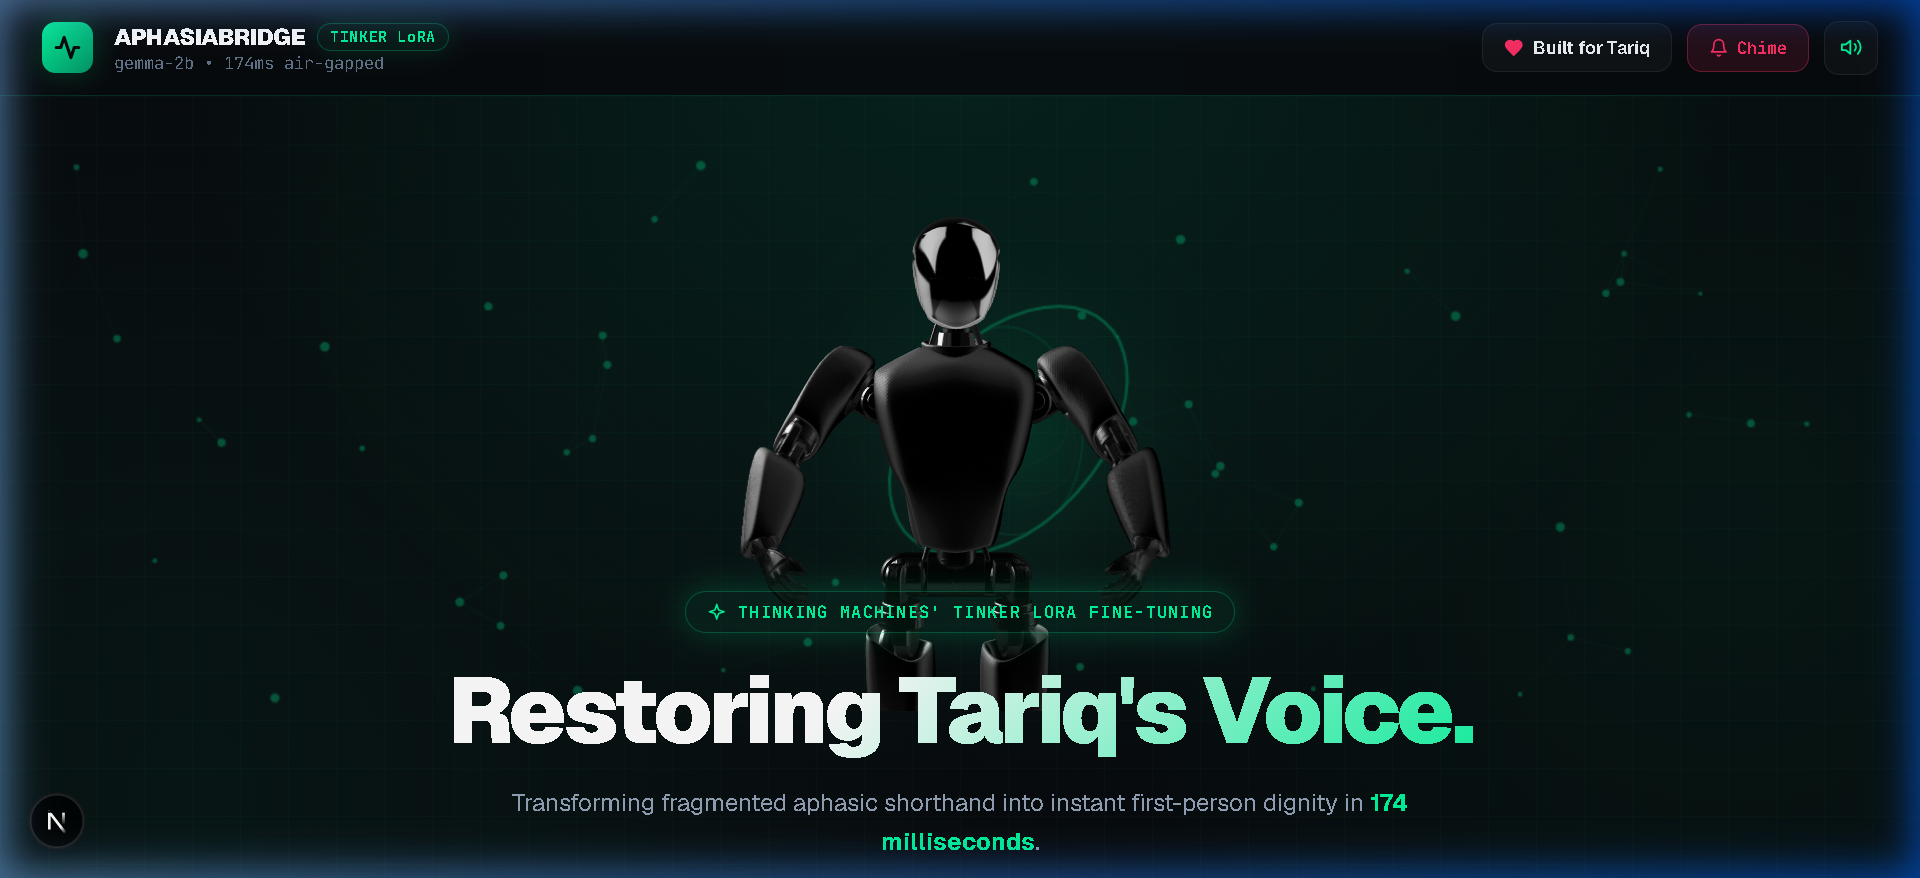
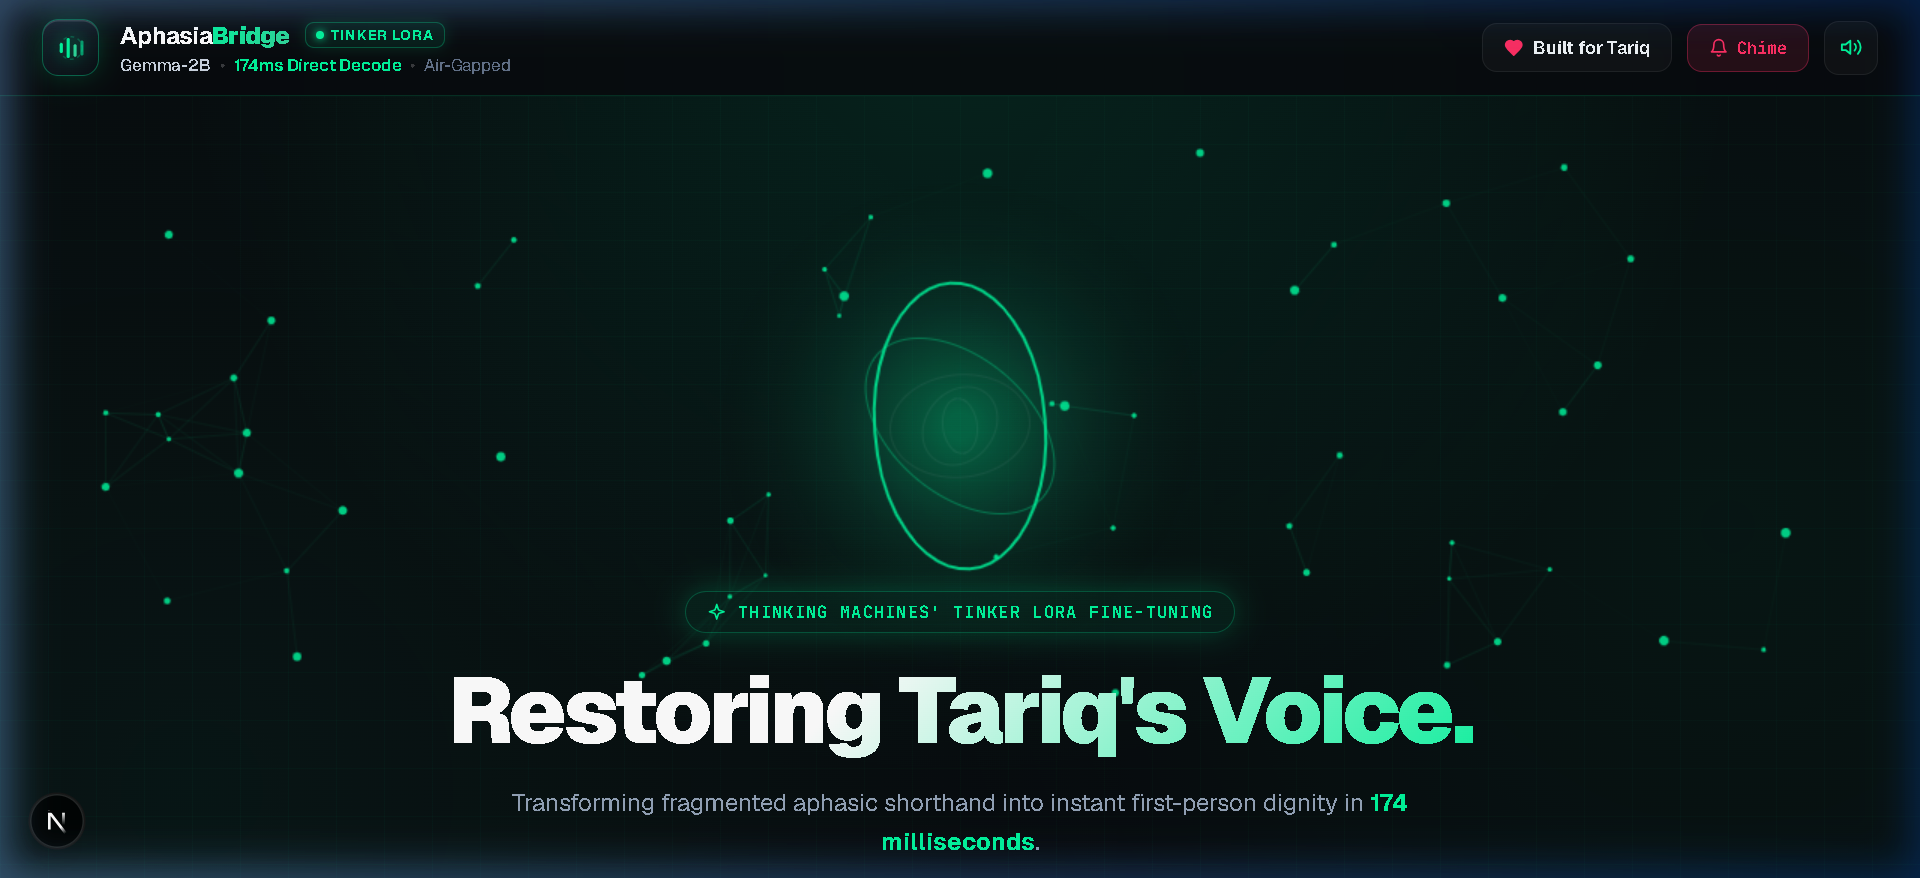
feat(brand): redesign header brand section with cybernetic voice node mark and luxury typography

diff --git a/next-app/app/page.jsx b/next-app/app/page.jsx
@@ -111,30 +111,99 @@ export default function Home() {
       }}>
         {/* Brand */}
         <div style={{ display: 'flex', alignItems: 'center', gap: '14px' }}>
+          {/* Futuristic Cybernetic Voice Node Mark */}
           <div style={{
-            width: '34px',
-            height: '34px',
-            borderRadius: '9px',
-            background: 'linear-gradient(135deg, #00F59B 0%, #059669 100%)',
+            position: 'relative',
+            width: '38px',
+            height: '38px',
+            borderRadius: '11px',
+            background: 'linear-gradient(145deg, #111822 0%, #0A0F15 100%)',
+            border: '1px solid rgba(0, 245, 155, 0.35)',
             display: 'flex',
             alignItems: 'center',
             justifyContent: 'center',
-            boxShadow: '0 0 20px var(--zed-glow)'
+            boxShadow: '0 0 20px rgba(0, 245, 155, 0.2), inset 0 1px 0 rgba(255, 255, 255, 0.15)',
+            flexShrink: 0
           }}>
-            <Activity size={18} color="#07090D" strokeWidth={2.8} />
+            {/* Cybernetic Equalizer Sound Wave */}
+            <svg width="20" height="20" viewBox="0 0 24 24" fill="none">
+              <rect x="3" y="8" width="2.5" height="8" rx="1.25" fill="#00F59B" />
+              <rect x="8.5" y="4" width="2.5" height="16" rx="1.25" fill="#00F59B" />
+              <rect x="14" y="9" width="2.5" height="10" rx="1.25" fill="#34D399" />
+              <rect x="19.5" y="6" width="2.5" height="12" rx="1.25" fill="#059669" />
+              <circle cx="12" cy="12" r="9" stroke="rgba(0, 245, 155, 0.25)" strokeWidth="1.2" strokeDasharray="3 3" />
+            </svg>
+            {/* Micro-glow in the center */}
+            <div style={{
+              position: 'absolute',
+              width: '14px',
+              height: '14px',
+              borderRadius: '50%',
+              background: '#00F59B',
+              filter: 'blur(8px)',
+              opacity: 0.45,
+              pointerEvents: 'none'
+            }} />
           </div>
 
-          <div>
-            <div style={{ display: 'flex', alignItems: 'center', gap: '8px' }}>
-              <span style={{ fontSize: '15px', fontWeight: '900', fontFamily: 'var(--font-display)', letterSpacing: '-0.02em', color: '#FFFFFF' }}>
-                APHASIABRIDGE
+          <div style={{ display: 'flex', flexDirection: 'column', gap: '2px' }}>
+            <div style={{ display: 'flex', alignItems: 'center', gap: '10px' }}>
+              <span style={{
+                fontSize: '16px',
+                fontFamily: 'var(--font-display)',
+                letterSpacing: '-0.03em',
+                display: 'inline-flex',
+                alignItems: 'center'
+              }}>
+                <span style={{ fontWeight: '700', color: '#FFFFFF' }}>Aphasia</span>
+                <span style={{
+                  fontWeight: '900',
+                  background: 'linear-gradient(135deg, #00F59B 0%, #34D399 100%)',
+                  WebkitBackgroundClip: 'text',
+                  WebkitTextFillColor: 'transparent'
+                }}>Bridge</span>
               </span>
-              <span className="pill-zed" style={{ padding: '2px 8px', fontSize: '10px' }}>
+
+              <span style={{
+                display: 'inline-flex',
+                alignItems: 'center',
+                gap: '5px',
+                background: 'rgba(0, 245, 155, 0.08)',
+                border: '1px solid rgba(0, 245, 155, 0.28)',
+                borderRadius: '6px',
+                padding: '2px 7px',
+                fontSize: '9.5px',
+                fontWeight: '700',
+                letterSpacing: '0.06em',
+                textTransform: 'uppercase',
+                color: 'var(--zed-green)',
+                boxShadow: '0 0 10px rgba(0, 245, 155, 0.15)'
+              }}>
+                <span style={{
+                  width: '5px',
+                  height: '5px',
+                  borderRadius: '50%',
+                  backgroundColor: 'var(--zed-green)',
+                  boxShadow: '0 0 6px var(--zed-green)'
+                }} />
                 TINKER LoRA
               </span>
             </div>
-            <div style={{ fontSize: '11px', color: '#64748B', fontFamily: 'var(--font-mono)' }}>
-              gemma-2b &bull; 174ms air-gapped
+
+            <div style={{
+              display: 'flex',
+              alignItems: 'center',
+              gap: '6px',
+              fontSize: '11px',
+              color: '#94A3B8',
+              fontFamily: 'var(--font-sans)',
+              letterSpacing: '-0.01em'
+            }}>
+              <span style={{ color: '#CBD5E1', fontWeight: '500' }}>Gemma-2B</span>
+              <span style={{ color: 'rgba(255, 255, 255, 0.2)' }}>&bull;</span>
+              <span style={{ color: 'var(--zed-green)', fontWeight: '600' }}>174ms Direct Decode</span>
+              <span style={{ color: 'rgba(255, 255, 255, 0.2)' }}>&bull;</span>
+              <span style={{ color: '#64748B' }}>Air-Gapped</span>
             </div>
           </div>
         </div>
